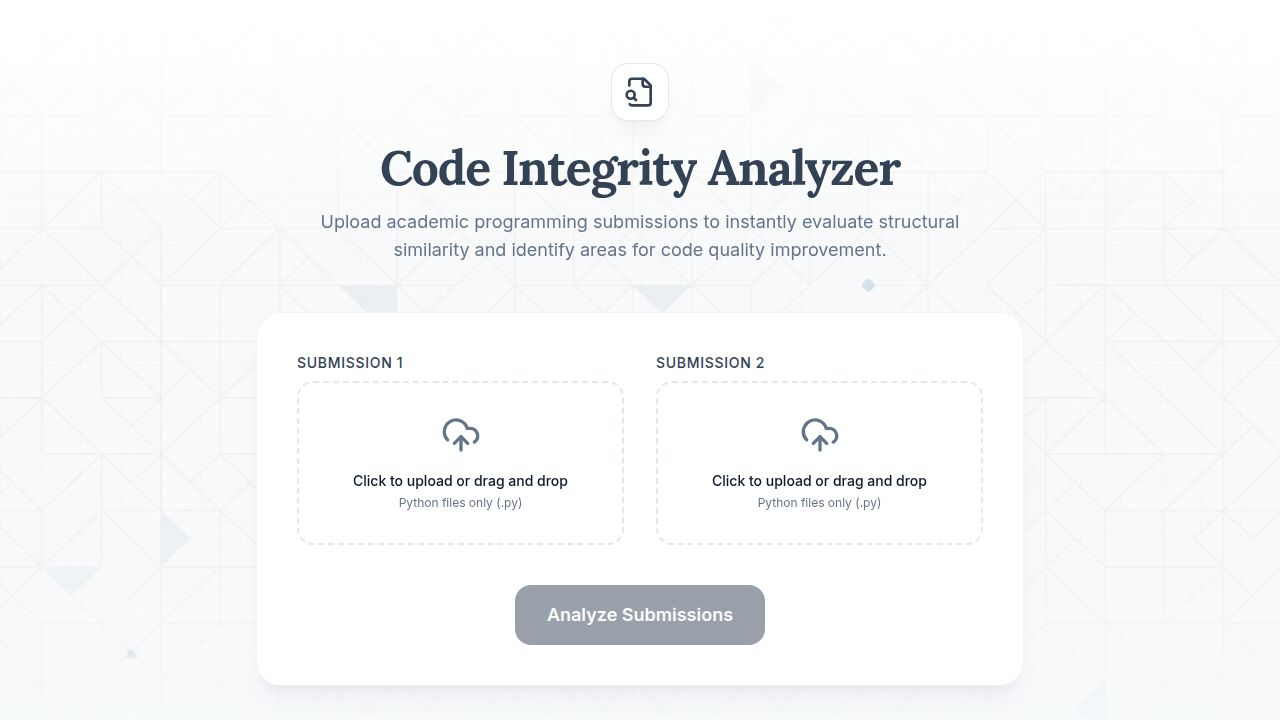
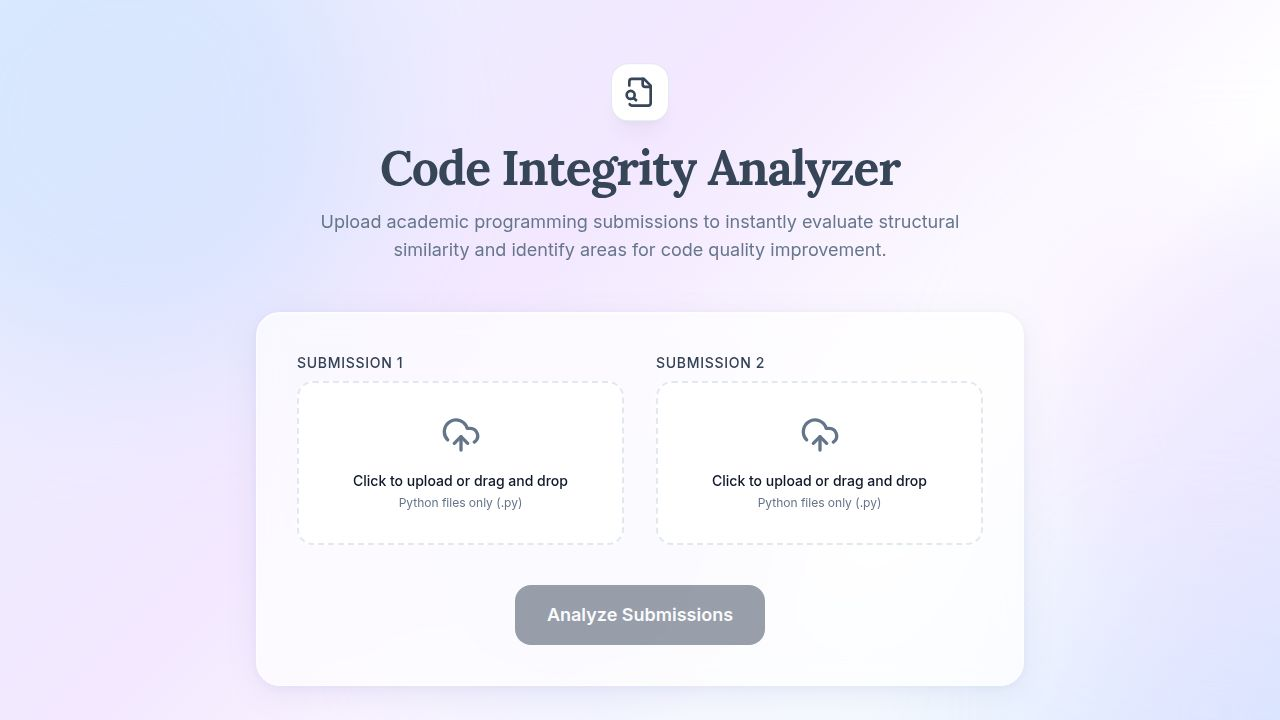
Enhance web application aesthetics with modern design elements
Update CSS and component styles to implement a gradient background, floating background orbs, and a glassmorphism effect on cards, without altering application functionality or layout.

Replit-Commit-Author: Agent
Replit-Commit-Session-Id: d5eae568-f53d-48f5-b8f7-2a414066c3dd
Replit-Commit-Checkpoint-Type: full_checkpoint
Replit-Commit-Event-Id: 97b348b2-83e0-40a2-8154-ca987fda7fcb
Replit-Commit-Screenshot-Url: https://storage.googleapis.com/screenshot-production-us-central1/4710683b-3c43-46b5-a251-af3dbaed3548/d5eae568-f53d-48f5-b8f7-2a414066c3dd/zGdNB4I
Replit-Helium-Checkpoint-Created: true

diff --git a/artifacts/code-analyzer/src/pages/home.tsx b/artifacts/code-analyzer/src/pages/home.tsx
@@ -99,15 +99,12 @@ End of Report
 
   return (
     <div className="min-h-screen w-full relative pb-24">
-      {/* Background decoration */}
+      {/* Background floating orbs */}
       <div className="absolute inset-0 z-0 overflow-hidden pointer-events-none">
-        <img 
-          src={`${import.meta.env.BASE_URL}images/academic-bg.png`}
-          alt="" 
-          className="w-full h-full object-cover opacity-50 mix-blend-multiply"
-        />
-        <div className="absolute top-0 inset-x-0 h-64 bg-gradient-to-b from-white to-transparent" />
-        <div className="absolute bottom-0 inset-x-0 h-64 bg-gradient-to-t from-background to-transparent" />
+        <div className="orb-1 absolute -top-32 -left-32 w-[500px] h-[500px] rounded-full bg-blue-200/40 blur-3xl" />
+        <div className="orb-2 absolute top-1/4 -right-40 w-[420px] h-[420px] rounded-full bg-purple-200/35 blur-3xl" />
+        <div className="orb-3 absolute bottom-0 left-1/3 w-[380px] h-[380px] rounded-full bg-indigo-100/40 blur-3xl" />
+        <div className="orb-4 absolute -bottom-20 -right-20 w-[300px] h-[300px] rounded-full bg-violet-200/30 blur-3xl" />
       </div>
 
       <div className="max-w-5xl mx-auto px-4 sm:px-6 lg:px-8 pt-16 relative z-10">
@@ -133,7 +130,7 @@ End of Report
                 initial={{ opacity: 0, y: 20 }}
                 animate={{ opacity: 1, y: 0 }}
                 exit={{ opacity: 0, scale: 0.95 }}
-                className="bg-white rounded-3xl shadow-xl shadow-primary/5 border border-border/50 p-6 md:p-10 max-w-3xl mx-auto"
+                className="glass-card rounded-3xl p-6 md:p-10 max-w-3xl mx-auto"
               >
                 <div className="grid md:grid-cols-2 gap-8 mb-10">
                   <FileUpload 
@@ -208,7 +205,7 @@ End of Report
                 {/* Top Stats Row */}
                 <div className="grid md:grid-cols-3 gap-6">
                   {/* Score Card */}
-                  <div className="md:col-span-2 bg-white rounded-3xl shadow-xl shadow-primary/5 border border-border/50 p-8 flex flex-col justify-center">
+                  <div className="md:col-span-2 glass-card rounded-3xl p-8 flex flex-col justify-center">
                     <h3 className="text-sm font-bold text-muted-foreground uppercase tracking-widest mb-6">Structural Similarity</h3>
                     <div className="flex items-end gap-4 mb-4">
                       <span className="text-6xl font-serif font-bold text-primary leading-none">
@@ -226,7 +223,7 @@ End of Report
                   </div>
 
                   {/* Risk Level Card */}
-                  <div className={`rounded-3xl border p-8 flex flex-col items-center justify-center text-center transition-colors ${getLevelConfig(result.plagiarismLevel).bg} border-${getLevelConfig(result.plagiarismLevel).color.split('-')[1]}-200`}>
+                  <div className={`glass-card-colored rounded-3xl p-8 flex flex-col items-center justify-center text-center transition-colors ${getLevelConfig(result.plagiarismLevel).bg}`}>
                     <h3 className="text-sm font-bold text-muted-foreground uppercase tracking-widest mb-4 opacity-80">Assessment</h3>
                     {React.createElement(getLevelConfig(result.plagiarismLevel).icon, { 
                       className: `w-16 h-16 mb-4 ${getLevelConfig(result.plagiarismLevel).color}` 
@@ -238,7 +235,7 @@ End of Report
                 </div>
 
                 {/* Code Quality Section */}
-                <div className="bg-white rounded-3xl shadow-xl shadow-primary/5 border border-border/50 overflow-hidden">
+                <div className="glass-card rounded-3xl overflow-hidden">
                   <div className="p-6 border-b border-border bg-secondary/30">
                     <h3 className="text-lg font-serif font-bold text-primary flex items-center gap-2">
                       <FileText className="w-5 h-5" />

diff --git a/artifacts/code-analyzer/src/index.css b/artifacts/code-analyzer/src/index.css
@@ -50,14 +50,13 @@
 }
 
 :root {
-  /* Clean, Professional Academic Palette */
-  --background: 210 40% 98%; /* Light slate background */
-  --foreground: 222 47% 11%; /* Dark Navy text */
+  --background: 210 40% 98%;
+  --foreground: 222 47% 11%;
   --card: 0 0% 100%;
   --card-foreground: 222 47% 11%;
   --popover: 0 0% 100%;
   --popover-foreground: 222 47% 11%;
-  --primary: 215 25% 27%; /* Oxford Blue / Academic Blue */
+  --primary: 215 25% 27%;
   --primary-foreground: 210 40% 98%;
   --secondary: 210 40% 96.1%;
   --secondary-foreground: 222.2 47.4% 11.2%;
@@ -70,7 +69,6 @@
   --border: 214.3 31.8% 91.4%;
   --input: 214.3 31.8% 91.4%;
   --ring: 215 25% 27%;
-  
   --radius: 0.75rem;
 }
 
@@ -101,12 +99,55 @@
     @apply border-border;
   }
   body {
-    @apply bg-background text-foreground font-sans antialiased;
-    background-image: linear-gradient(to right, rgba(0,0,0,0.02) 1px, transparent 1px),
-                      linear-gradient(to bottom, rgba(0,0,0,0.02) 1px, transparent 1px);
-    background-size: 40px 40px;
+    @apply text-foreground font-sans antialiased;
+    background: linear-gradient(135deg, #e8f0fe 0%, #f3e8ff 40%, #ffffff 70%, #dbeafe 100%);
+    background-attachment: fixed;
+    min-height: 100vh;
   }
   h1, h2, h3, h4, h5, h6 {
     @apply font-serif tracking-tight text-primary;
   }
+}
+
+/* Floating orb animations */
+@keyframes float-slow {
+  0%, 100% { transform: translateY(0px) translateX(0px); }
+  33%       { transform: translateY(-30px) translateX(15px); }
+  66%       { transform: translateY(-15px) translateX(-10px); }
+}
+
+@keyframes float-medium {
+  0%, 100% { transform: translateY(0px) translateX(0px); }
+  50%       { transform: translateY(-20px) translateX(-20px); }
+}
+
+@keyframes float-fast {
+  0%, 100% { transform: translateY(0px) translateX(0px); }
+  50%       { transform: translateY(18px) translateX(12px); }
+}
+
+.orb-1 { animation: float-slow 12s ease-in-out infinite; }
+.orb-2 { animation: float-medium 9s ease-in-out infinite; }
+.orb-3 { animation: float-fast 7s ease-in-out infinite; }
+.orb-4 { animation: float-slow 15s ease-in-out infinite reverse; }
+
+/* Glassmorphism card */
+.glass-card {
+  background: rgba(255, 255, 255, 0.70);
+  backdrop-filter: blur(14px);
+  -webkit-backdrop-filter: blur(14px);
+  border: 1px solid rgba(255, 255, 255, 0.55);
+  box-shadow:
+    0 8px 32px rgba(99, 120, 180, 0.10),
+    0 2px 8px rgba(99, 120, 180, 0.06),
+    inset 0 1px 0 rgba(255, 255, 255, 0.80);
+}
+
+.glass-card-colored {
+  backdrop-filter: blur(14px);
+  -webkit-backdrop-filter: blur(14px);
+  border: 1px solid rgba(255, 255, 255, 0.45);
+  box-shadow:
+    0 8px 32px rgba(99, 120, 180, 0.10),
+    0 2px 8px rgba(99, 120, 180, 0.06);
 }
